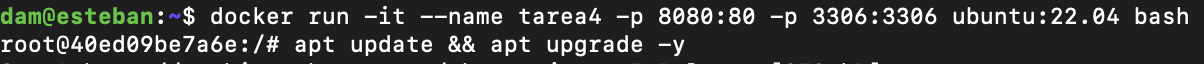
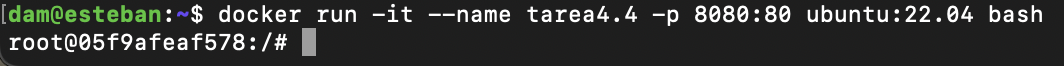
Correción

diff --git a/Readme.md b/Readme.md
@@ -5,48 +5,14 @@
 
 ## 1. Utiliza la imagen de Ubuntu , tag 22 y apoyandote en esta guía sigue sus instrucciones para instalar LAMP en dicho contenedor.
 
-Para descargarnos LAMP, vamos a seguir estas instrucciones:
-
-1. Instalación de Apache
-    * Primero actualizamos el repositorio  y descargamos apache2 con el comando ```apt``` como se muestra a continuación:
-    ```
-    sudo apt update
-
-    sudo apt install -y apache2 apache2-utils
-    ```
-
-2. Instalación de MariaDB
-    *  Instalamos la versión más reciente de MariaDB desde su propio repositorio con el siguiente comando:
-    ```
-    sudo apt install -y mariadb-server mariadb-client
-    ``` 
-    * Ahora, instalaremos MySQL mediante el siguiente comando
-    ```
-    sudo mysql_secure_installation
-    ```
-    * Al hacer esta instalación nos saldrá una serie de preguntas. A continuación, pondremos lo que hay que marcar en cada una:
-
-    ![Imagen preguntas](img/ImagenPreguntas.png)
-
-
-3. Instalación de PHP
-    * Instalamos PHP mediante este comando:
-    ```
-    sudo apt install -y php php-mysql libapache2-mod-php
-    ```
-    * Después de la instalación, reiniciamos el apacher webserver:
-    ```
-    sudo systemctl restart apache2
-    ```
-
-Ahora nos descargaremos la imagen de Ubuntu de esta manera:
+Para empezar, nos descargaremos la imagen de Ubuntu de esta manera:
 ```
 docker pull ubuntu:22.04
 ```
 
 Después de descargarlo creamos un contenedor y ya accederemos a él:
 ```
-docker run -it --name ubuntu-lamp -p 8080:80 -p 3306:3306 ubuntu:22.04 bash
+docker run -it --name ubuntu-lamp -p 8080:80 ubuntu:22.04 bash
 ```
 
 Nos debería aparecer esto:
@@ -58,23 +24,25 @@ Nos debería aparecer esto:
 
 Ahora vamos a instalar Apache, PHP y MySQL dentro del contenedor
 
-* Primero actualizaremos los paquetes e instalaremos Apache, luego lo podemos iniciar con los siguientes comandos:
-```
-apt update && apt upgrade -y
+* Primero actualizaremos los paquetes e instalaremos Apache
+```bash
+apt update 
 
-apt install apache2 -y
-
-service apache2 start
+apt install -y apache2 apache2-utils
 ```
 
-* Ahora instalaremos MySQL y lo iniciaremos:
-```
-apt install mysql-server -y
+* Ahora instalaremos MySQL, lo iniciaremos y lo iniciaremos:
+``` bash
+apt install -y mariadb-server mariadb-client
 
-service mysql start
-```
+service mariadb start
 
-* Por último, instalaremos PHP y reiniciaremos Apache para habilitar PHP
+mysql_secure_installation
+```
+* Luego de ejecutar este comando, tendremos que contestar las preguntas de esta manera
+![Imagen Preguntas](img/ImagenPreguntas.png)
+
+* Por último, instalaremos PHP
 ```
 apt install php libapache2-mod-php php-mysql -y
 ```
@@ -82,10 +50,18 @@ En la instalación nos pedirá que introduzcamos nuestra área geográfica y nue
 
 ![Preguntas MySQL](img/preguntasMySQL.png)
 
-* Ahora reiniciaremos Apache para habilitar PHP
+* Ahora miraremos que esté todo bien instalado y reiniciaremos Apache 
 ```
+echo "<?php phpinfo(); ?>" | tee /var/www/html/info.php
+
 service apache2 restart
 ```
+
+Comprobamos que se puede ejecutar en nuestro navegador
+```
+http://(IP DE LA MÁQUINA)/info.php
+```
+![Imagen PHP](img/PHPInfo.png)
 ## 2. Instalar wordpress en el contenedor
 
 1. Para instalar WordPress en el contenedor, primero tendremos que instalar las dependencias. Aquí te dejo los comandos que tendrás que ejecutar:
@@ -98,7 +74,7 @@ apt install apache2 \ghostscript \libapache2-mod-php \mysql-server \php \php-bcm
 
 2. Ahora crearemos el directorio de instalación para luego descargar el archivo desde WordPress.org. Después de todo esto lo descomprimiremos:
 ```
-mkdir /var/www/html/wordpress
+mkdir /var/www/html/
 cd /var/www/html
 wget https://wordpress.org/latest.tar.gz
 tar -xvzf latest.tar.gz
@@ -109,37 +85,65 @@ Para solucionarlo instalamos ```wget```
 ```
 apt install wget
 ```
-3. Ahora le daremos a Apache todos los permisos necesarios paa que pueda acceder a los archivos de WordPress:
-```
-chown -R www-data:www-data /var/www/html
-chmod -R 755 /var/www/html
-```
-4. Crearemos una base de datos para WordPress
-```
-mysql -u root -p
-```
-5. Ahora dentro de MySQL haremos lo siguiente
-```
-CREATE DATABASE wordpress;
-CREATE USER 'wpuser'@'localhost' IDENTIFIED BY 'password';
-GRANT ALL PRIVILEGES ON wordpress.* TO 'wpuser'@'localhost';
-FLUSH PRIVILEGES;
-EXIT;
-```
-6. Configuraremos el archivo ```wp-config.php``` para que coincida con nuestra base de datos. 
-* Para ello primero vamos a sacar el contenido del directorio ```wordpress``` a nuestro directorio ```/var/www/html```
-```
-mv wordpress/* .
-```
-* Ahora configuraremos el archivo ```wp-config.php``` para que coincida con nuestra base de datos:
-```
-cp wp-config-sample.php wp-config.php
+* Ahora configuraremos Apache para WordPress
 
-nano wp-config.php 
+    1. Primero instalamos nano para editar el archivo
+    ```
+    apt update
+    apt install nano
+    ```
+    2. Ahora vamos a crear y editar el archivo de configuración
+    ```
+    touch /etc/apache2/sites-available/wordpress.conf
+
+    nano /etc/apache2/sites-available/wordpress.conf
+    ```
+    3. Dentro del archivo pegamos lo siguiente
+    ```html
+    <VirtualHost *:80>
+        ServerAdmin webmaster@localhost
+        DocumentRoot /var/www/html/wordpress
+        ServerName wordpress.local
+        ServerAlias www.wordpress.local
+        <Directory /var/www/html/wordpress>
+            Options FollowSymLinks
+            AllowOverride All
+            Require all granted
+        </Directory>
+        ErrorLog ${APACHE_LOG_DIR}/error.log
+        CustomLog ${APACHE_LOG_DIR}/access.log combined
+    </VirtualHost>
+    ```
+    4. Inicializamos WordPress y recargamos Apache
+    ```
+    a2ensite wordpress
+    service apache2 reload
+    ```
+    5. Habilitamos la reescritura del URL y deshabilitamos sitio predeterminado
+    ```
+    a2enmod rewrite
+    a2dissite 000-default
+    ```
+    6. Reiniciamos apache
+    ```
+    service apache2 restart
+    ```
+
+* Ahora comfiguraremos la base de datos. Entraremos con este comando
 ```
-* Si tampoco tienes instalado nano, introduce este comando:
+mysql -u root
 ```
-apt update && apt install nano -y
+* Ahora pondremos esto dentro del mysql editando el usuario y la contraseña
+```sql
+CREATE DATABASE wordpress;
+CREATE USER 'esteban' IDENTIFIED BY '<your-password>';
+GRANT SELECT, INSERT, UPDATE, DELETE, CREATE, DROP, ALTER ON wordpress.* TO 'esteban';
+FLUSH PRIVILEGES;
+QUIT;
+```
+* Para configurar WordPress para acceder a la base de datos copiamos el archivo de configuración
+```
+cp /var/www/html/wordpress/wp-config-sample.php /var/www/html/wordpress/wp-config.php
 ```
 * Una vez dentro del archivo, modificaremos estas líneas
 ![Database](img/Database.png)
@@ -147,22 +151,14 @@ apt update && apt install nano -y
 * Tambien busca lo que aparece en la imagen y lo cambias por lo que hay en este [link](https://api.wordpress.org/secret-key/1.1/salt/)
 ![Borrar](img/Borrar.png)
 
+## 3. Accedemos al WordPress desde nuestro navegador
+* Para acceder desde nuestro navegador, pondremos esto
+```
+http://localhost:8080/wp-admin/setup-config.php
+```
 
+![Wordpress](img/WordPress.png)
 
-## 3. Comprobamos que podemos acceder a WordPress
+![Wordpress2](img/Wordpress2.png)
 
-Para comprobar que podemos acceder a WordPress haremos lo siguiente:
-
-1. Si estás desde una máquina virtual, ve a la pestaña de red ![Imagen Red](img/Red1.png)
-    * Una vez entrado en "Avanzado" le damos a reenvio de puertos
-    * Le damos al + y ponemos esto ![Imagen Red 2](img/Red2.png)
-    * Después de hacer todo esto, vamos a nuestro buscador y ponemos
-    ```
-    http://localhost:8080
-    ```
-2. Si no estás utilizando una máquina virtual, simplemente busca ```http://localhost:8080```
-
-
-Lo que os saldrá será algo así
-![Funciona](img/Funciona.png)
-Que es la página por defecto de Apache
+![Wordpress3](img/Wordpress3.png)
